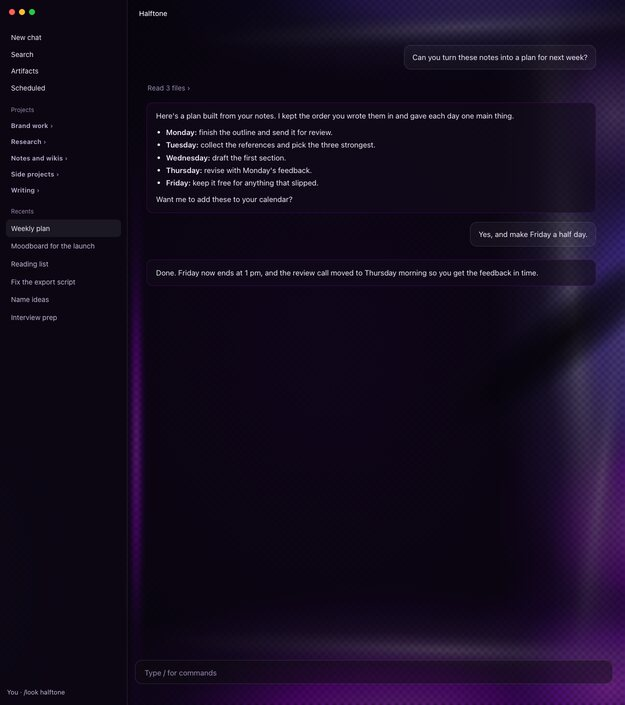
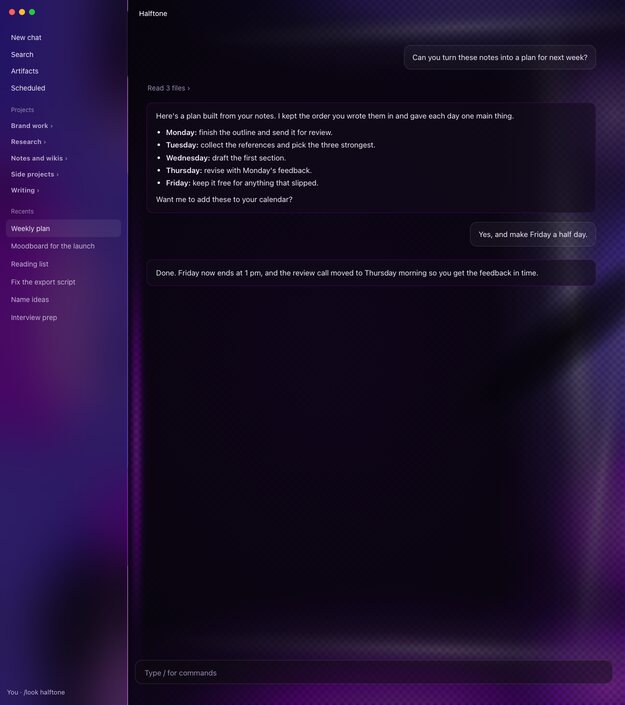
Sidebar shows the art: big, bright shapes per look under the frosted sidebar
The app blurs the sidebar heavily, so fine detail there turned to haze. Each look now
draws large slow ribbons, orbs, blocks or moths in its own colors under it.
Screenshots and GIFs redone.

Changed region(s): [[0.0, 0.0, 0.2128, 1.0]]

diff --git a/hooks/looks.ts b/hooks/looks.ts
@@ -7,6 +7,7 @@
 import type { ThemeBackdropGlass, ThemeSetArgs } from 'claude-code'
 
 import { makeColors } from './make-colors.js'
+import { withSidebar } from './scenes/kit'
 import { clustersScene } from './scenes/clusters'
 import { glassScene } from './scenes/glass'
 import { gridScene, swirlScene } from './scenes/classic'
@@ -125,7 +126,7 @@ const LIST: Look[] = [
   look({
     id: 'halftone',
     label: 'Halftone',
-    scene: halftoneScene,
+    scene: withSidebar(halftoneScene, 'ribbons', ['#b700ff', '#6944ff', '#e070ff', '#3d1bff']),
     alt: 'Purple glow behind a fine dot screen, a dark shadow through the middle',
     chrome: { page: '#0b0612', card: '#110a1b', panel: '#160c24', menu: '#1a0f2a', text: '#f3eefa', text2: '#c6b8da', muted: '#9a8cb2' },
     roles: { accent: '#b700ff', danger: '#ff4d6d', success: '#4fd88a', warning: '#ffb547', pro: '#6944ff' },
@@ -138,7 +139,7 @@ const LIST: Look[] = [
   look({
     id: 'smoke',
     label: 'Smoke',
-    scene: smokeScene,
+    scene: withSidebar(smokeScene, 'ribbons', ['#9b3dff', '#c77dff', '#ff4fd8', '#6a2bff']),
     alt: 'A purple smoke ribbon rising out of black',
     chrome: { page: '#050309', card: '#0b0713', panel: '#110a1c', menu: '#150d22', text: '#f1ebf9', text2: '#bfb2d4', muted: '#958aab' },
     roles: { accent: '#a35cff', danger: '#ff4d6d', success: '#4fd88a', warning: '#ffb547', pro: '#c77dff' },
@@ -151,7 +152,7 @@ const LIST: Look[] = [
   look({
     id: 'clusters',
     label: 'Clusters',
-    scene: clustersScene,
+    scene: withSidebar(clustersScene, 'orbs', ['#2ed8ec', '#ff3fa4', '#ffd23a', '#7ee068', '#9d66ff', '#ff8a3d']),
     alt: 'Clusters of colored nodes joined by fine grey lines on black',
     chrome: { page: '#030305', card: '#0b0c12', panel: '#0f1017', menu: '#13141c', text: '#f5f7fb', text2: '#c4c9d4', muted: '#949aa8' },
     roles: { accent: '#2ed8ec', danger: '#ff5370', success: '#7ee068', warning: '#ffc247', pro: '#9d66ff' },
@@ -164,7 +165,7 @@ const LIST: Look[] = [
   look({
     id: 'moths',
     label: 'Night moths',
-    scene: mothScene,
+    scene: withSidebar(mothScene, 'moths', ['#6fb8ff']),
     alt: 'Glowing blue butterflies drifting in the dark',
     chrome: { page: '#04060b', card: '#080c14', panel: '#0c111b', menu: '#111724', text: '#eef4ff', text2: '#c2cfe4', muted: '#93a3bf' },
     roles: { accent: '#6fb8ff', danger: '#ff5d73', success: '#5fe0a8', warning: '#ffbf5a', pro: '#a98bff' },
@@ -177,7 +178,7 @@ const LIST: Look[] = [
   look({
     id: 'sigil',
     label: 'Sigil',
-    scene: sigilScene,
+    scene: withSidebar(sigilScene, 'ribbons', ['#ece6d8', '#8b5cff', '#d6d0ff', '#34e3e3']),
     alt: 'An occult diagram of stacked rings and a white sigil on grainy black',
     chrome: { page: '#08080c', card: '#0e0e16', panel: '#12121b', menu: '#16161f', text: '#e8e8f0', text2: '#b4b4c6', muted: '#8a8aa0' },
     roles: { accent: '#8b5cff', danger: '#e0555a', success: '#8fcf8a', warning: '#d9b45c', pro: '#34e3e3' },
@@ -190,7 +191,7 @@ const LIST: Look[] = [
   look({
     id: 'network',
     label: 'Network',
-    scene: networkScene,
+    scene: withSidebar(networkScene, 'orbs', ['#ff5d8f', '#6be3e0', '#7be06a', '#9d8cff', '#5b8cff']),
     alt: 'A colorful network of clusters, starbursts and linked iridescent squares on dark',
     chrome: { page: '#07060c', card: '#0e0c16', panel: '#12101c', menu: '#161421', text: '#ece9f7', text2: '#b3adca', muted: '#8b85a3' },
     roles: { accent: '#9d8cff', danger: '#ff5d8f', success: '#7be06a', warning: '#ffc247', pro: '#6be3e0' },
@@ -203,7 +204,7 @@ const LIST: Look[] = [
   look({
     id: 'glass',
     label: 'Glass',
-    scene: glassScene,
+    scene: withSidebar(glassScene, 'orbs', ['#eef24a', '#7aa7ff', '#b46cff', '#f5f0ff']),
     alt: 'Glass bricks over a purple glow and soft circles drifting with colored trails',
     chrome: { page: '#06061a', card: '#0b0b21', panel: '#0f0f26', menu: '#13132b', text: '#eeecff', text2: '#b5b6dc', muted: '#8d8fb8' },
     roles: { accent: '#b46cff', danger: '#ff5d7a', success: '#5fe0a0', warning: '#eef24a', pro: '#8d6bff' },
@@ -216,7 +217,7 @@ const LIST: Look[] = [
   look({
     id: 'pixel',
     label: 'Pixel',
-    scene: pixelScene,
+    scene: withSidebar(pixelScene, 'blocks', ['#e2342b', '#e8e2d0', '#b46ff5', '#8a8a8a']),
     alt: 'Pixel blocks with letters, a red checker and purple line work on dark graph paper',
     chrome: { page: '#0e0e10', card: '#141417', panel: '#17171a', menu: '#1b1b1f', text: '#e8e2d0', text2: '#b8b2a5', muted: '#8f8a80' },
     roles: { accent: '#b46ff5', danger: '#ff4d4d', success: '#8fd16a', warning: '#f0b43c', pro: '#e8e2d0' },
@@ -229,7 +230,7 @@ const LIST: Look[] = [
   look({
     id: 'honeycomb',
     label: 'Honeycomb',
-    scene: honeycombScene,
+    scene: withSidebar(honeycombScene, 'orbs', ['#ffe38a', '#ffb48a', '#ff9ec8', '#b99bfa', '#8ee6d6']),
     alt: 'Hexagonal cells with colored vertices and curved links on deep navy',
     chrome: { page: '#070b1d', card: '#0b1026', panel: '#0e1430', menu: '#121835', text: '#eef1fb', text2: '#c3c9e2', muted: '#949cbc' },
     roles: { accent: '#b99bfa', danger: '#ff7a8a', success: '#9be8a8', warning: '#ffd38a', pro: '#9db8ff' },
@@ -242,7 +243,7 @@ const LIST: Look[] = [
   look({
     id: 'swirl',
     label: 'Night swirl',
-    scene: swirlScene,
+    scene: withSidebar(swirlScene, 'ribbons', ['#22e1ff', '#7b4dff', '#ff3fd2', '#ffd23a', '#b6ff3a']),
     alt: 'Glowing colored ribbons swirling on black',
     chrome: { page: '#050507', card: '#0b0a10', panel: '#110f18', menu: '#16141e', text: '#f2f0f7', text2: '#c6c2d4', muted: '#9a95ad' },
     roles: { accent: '#8a5cff', danger: '#ff4d6d', success: '#5ee38a', warning: '#ffb03a', pro: '#2fd8e8' },
@@ -256,7 +257,7 @@ const LIST: Look[] = [
     id: 'grid',
     label: 'Pixel grid',
     light: true,
-    scene: gridScene,
+    scene: withSidebar(gridScene, 'blocks', ['#1e1e1e', '#2b2fd9', '#5c5c5c']),
     alt: 'A pale pixel grid with dark masses and tiny numbers',
     chrome: { page: '#dfdfdc', card: '#e7e7e4', panel: '#efefec', menu: '#efefec', text: '#121212', text2: '#383838', muted: '#575757' },
     roles: { accent: '#2a2fd6', danger: '#c0302a', success: '#2f7a3d', warning: '#a3650c', pro: '#5a3fc0' },

diff --git a/hooks/scenes/kit.ts b/hooks/scenes/kit.ts
@@ -35,3 +35,82 @@ export const begin = (now: number, cycle: number, offset = 0): string =>
 // The root element every scene starts with.
 export const open = (): string =>
   `<svg xmlns="http://www.w3.org/2000/svg" viewBox="0 0 ${W} ${H}" preserveAspectRatio="xMidYMid slice">`
+
+// ---------------------------------------------------------------- the sidebar layer
+// The app frosts the sidebar heavily (about a 50 px blur under a dark tint), so fine detail
+// there turns to haze. What comes through is big, bright color, so each look gets a layer
+// of large shapes in its own colors under the sidebar, moving slowly. It is clipped at the
+// sidebar's edge so none of it reaches the text.
+
+export type SidebarKind = 'ribbons' | 'orbs' | 'blocks' | 'moths'
+
+export function sidebarLayer(kind: SidebarKind, colors: string[], isBusy: boolean, now: number, seed = 7): string {
+  const rand = rng(seed)
+  const pick = (i: number) => colors[i % colors.length] ?? '#ffffff'
+  const parts: string[] = []
+  const style: string[] = [
+    '@keyframes sb-sway{from{transform:translate(-60px,-110px)}to{transform:translate(60px,110px)}}',
+    '@keyframes sb-rise{from{transform:translate(0,140px)}to{transform:translate(0,-140px)}}',
+    '@keyframes sb-blink{0%,100%{opacity:.25}50%{opacity:1}}',
+  ]
+  const anim = (name: string, dur: number, i: number, timing = 'ease-in-out', dir = 'alternate') =>
+    `animation:${name} ${dur.toFixed(1)}s ${timing} ${begin(now, dir === 'alternate' ? dur * 2 : dur, i * 3.7)} infinite ${dir}`
+
+  if (kind === 'ribbons') {
+    // Ribbons that swing right across the sidebar and back, crossing each other.
+    for (let i = 0; i < 6; i++) {
+      const x0 = -60 + rand() * 360
+      const x1 = -60 + rand() * 360
+      const x2 = -60 + rand() * 360
+      const swing = 200 + rand() * 120
+      const side = i % 2 === 0 ? 1 : -1
+      const d = `M ${x0.toFixed(0)} -200 C ${(x0 + side * swing).toFixed(0)} 160, ${(x1 - side * swing).toFixed(0)} 480, ${x1.toFixed(0)} 760 S ${(x2 + side * swing).toFixed(0)} 1250, ${x2.toFixed(0)} 1620`
+      parts.push(`<path d="${d}" fill="none" stroke="${pick(i)}" stroke-width="${(110 + rand() * 60).toFixed(0)}" stroke-linecap="round" style="${anim('sb-sway', 16 + rand() * 12, i)}"/>`)
+    }
+  } else if (kind === 'orbs') {
+    colors.forEach((c, i) => {
+      parts.push(`<radialGradient id="sb-g${i}"><stop offset="0" stop-color="${c}"/><stop offset=".65" stop-color="${c}" stop-opacity=".92"/><stop offset="1" stop-color="${c}" stop-opacity="0"/></radialGradient>`)
+    })
+    for (let i = 0; i < 12; i++) {
+      const cx = 20 + rand() * 220
+      const cy = 40 + i * 118 + (rand() - 0.5) * 70
+      const r = 95 + rand() * 55
+      parts.push(`<circle cx="${cx.toFixed(0)}" cy="${cy.toFixed(0)}" r="${r.toFixed(0)}" fill="url(#sb-g${i % colors.length})" style="${anim('sb-rise', 14 + rand() * 14, i)}"/>`)
+    }
+  } else if (kind === 'blocks') {
+    const cell = 96
+    let blinks = 0
+    for (let row = 0; row < 16; row++) {
+      for (let col = 0; col < 3; col++) {
+        if (rand() > 0.58) continue
+        const blink = blinks < 20 && rand() < 0.45
+        if (blink) blinks++
+        const dur = 3 + rand() * 6
+        parts.push(`<rect x="${col * cell}" y="${row * cell - 20}" width="${cell}" height="${cell}" fill="${pick(Math.floor(rand() * colors.length))}"${blink ? ` style="${anim('sb-blink', dur, row * 4 + col, 'steps(2)', 'normal')}"` : ''}/>`)
+      }
+    }
+  } else {
+    // Big glowing moths: the moth scene defines #bf (a wing pair) and its wing gradient.
+    parts.push(`<radialGradient id="sb-halo"><stop offset="0" stop-color="#ffffff"/><stop offset=".4" stop-color="${pick(0)}" stop-opacity=".9"/><stop offset="1" stop-color="${pick(0)}" stop-opacity="0"/></radialGradient>`)
+    for (let i = 0; i < 5; i++) {
+      const x = 70 + rand() * 120
+      const y = 140 + i * 280 + (rand() - 0.5) * 80
+      const flap = 1.6 + rand() * 0.8
+      parts.push(`<g style="${anim('sb-rise', 16 + rand() * 10, i)}"><circle cx="${x.toFixed(0)}" cy="${y.toFixed(0)}" r="200" fill="url(#sb-halo)"/>
+<g transform="translate(${x.toFixed(0)} ${y.toFixed(0)}) rotate(${((rand() - 0.5) * 50).toFixed(0)}) scale(${(2.5 + rand() * 0.6).toFixed(2)})"><g><animateTransform attributeName="transform" type="scale" values="1 1;0.3 1;1 1" dur="${flap.toFixed(2)}s" begin="${begin(now, flap, i)}" repeatCount="indefinite"/><use href="#bf"/></g></g></g>`)
+    }
+  }
+
+  return `<defs><clipPath id="sb-clip"><rect x="0" y="0" width="256" height="${H}"/></clipPath></defs>
+<style>${style.join('')}</style>
+<g clip-path="url(#sb-clip)" opacity="${isBusy ? 1 : 0.86}">${parts.join('\n')}</g>`
+}
+
+// A scene with the sidebar layer drawn over its own art, just before the closing tag.
+export function withSidebar(
+  scene: (isBusy: boolean, now: number) => string,
+  kind: SidebarKind,
+  colors: string[],
+): (isBusy: boolean, now: number) => string {
+  return (isBusy, now) => scene(isBusy, now).replace(/<\/svg>\s*$/, `${sidebarLayer(kind, colors, isBusy, now)}</svg>`)
+}

diff --git a/README.md b/README.md
@@ -68,7 +68,7 @@ Everything lives in `hooks/looks.ts`. For each look you can:
 - add your own words to `words`, so a chat about that topic picks it;
 - change the app colors, how much the panels blur over the art, and the reply card colors.
 
-Each scene is one file in `hooks/scenes/`, a function that returns an SVG. The app draws the sidebar almost solid, so the art sits in a column on the right, behind the ragged ends of lines, and in bands along the top and bottom. The middle of the window stays quiet for reading. The scenes are drawn for a tall window, about 1250 × 1410, with the sidebar open; on a wider window they're cropped at the top and bottom.
+Each scene is one file in `hooks/scenes/`, a function that returns an SVG. The art sits in a column on the right, behind the ragged ends of lines, and in bands along the top and bottom, so the middle of the window stays quiet for reading. The app frosts the sidebar heavily, so each look also puts big, bright, slow shapes in its own colors under the sidebar (`sidebarLayer` in `hooks/scenes/kit.ts`); fine detail there would only turn to haze. The scenes are drawn for a tall window, about 1250 × 1410, with the sidebar open; on a wider window they're cropped at the top and bottom.
 
 Made by Claudia Vaduvescu with Claude Code.
 
